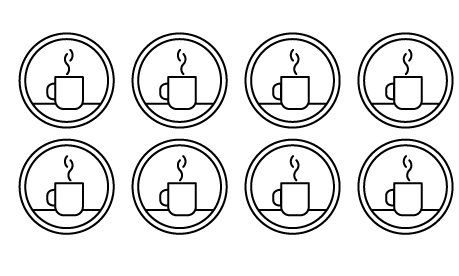
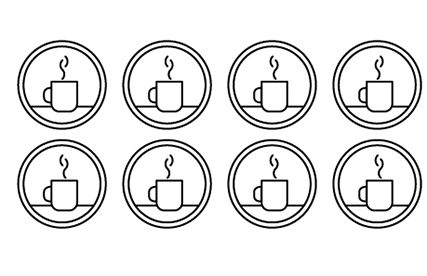
Adding the theory frid insted of the iframe

Changed region(s): [[0.0304, 0.1159, 1.0, 0.8696]]

diff --git a/index.html b/index.html
@@ -207,14 +207,62 @@
           Astrophysics here on Monday and in a set of papers submitted to The
           Astrophysical Journal.
         </p>
-        <section id="iframe-section">
-          <h2 class="hidden">Hidden only for semantic reason</h2>
-          <iframe
-            class="the-iframe"
-            src="https://www.nytimes.com/interactive/2020/admin/100000002772592.embedded.html"
-          ></iframe>
+        <section id="theory-section">
+          <h2 class="theory-title">The Theory of Inflation</h2>
+          <h3 calss="theory-subtitle">Astronomers have found evidence to support the theory of inflation, which explains how the universe expanded so uniformly and so quickly in the instant after the Big Bang 13.8 billion years ago.</h3>
+          <div class="theory-container">
+            <div class="theory-article">
+              <img class="theory-img" src="./assets/images/grid-1.png">
+              <p class="theory-par">
+                <b class="theory-par-title">THE UNIVERSE</b>is just under 14 billion years old. From our position in the Milky Way galaxy, we can observe a sphere that is now about 92 billion light-years across. But there's a mystery. Wherever we look, the universe has an even temperature.
+              </p>
+            </div>
+            <div class="theory-article">
+              <img class="theory-img" src="./assets/images/grid-2.png">
+              <p class="theory-par">
+                <b class="theory-par-title">NOT ENOUGH TIME</b>The universe is not old enough for light to have traveled the vast distance from one side of the universe to the other, and there has not been enough time for scattered patches of hot and cold to mix into an even temperature.
+              </p>
+            </div>
+            <div class="theory-article">
+              <img class="theory-img" src="./assets/images/grid-3.png">
+              <p class="theory-par">
+                <b class="theory-par-title">DISTANT COFFEE</b>At a smaller scale, imagine using a telescope to look a mile in one direction. You see a coffee cup, and from the amount of steam, you can estimate its temperature and how much it has cooled.
+              </p>
+            </div>
+            <div class="theory-article">
+              <img class="theory-img" src="./assets/images/grid-4.png">
+              <p class="theory-par">
+                <b class="theory-par-title">COFFEE EVERYWHERE</b>Now turn around and look a mile in the other direction. You see a similar coffee cup, at exactly the same temperature. Coincidence? Maybe. But if you see a similar cup in every direction, you might want to look for another explanation.
+              </p>
+            </div>
+            <div class="theory-article">
+              <img class="theory-img" src="./assets/images/grid-5.png">
+              <p class="theory-par">
+                <b class="theory-par-title">STILL NOT ENOUGH TIME</b>There has not been enough time to carry coffee cups from place to place before they get cold. But if all the coffee cups were somehow filled from a single coffee pot, all at the same time, that might explain their even temperature.
+              </p>
+            </div>
+            <div class="theory-article">
+              <img class="theory-img" src="./assets/images/grid-6.png">
+              <p class="theory-par">
+                <b class="theory-par-title">INFLATION</b>solves this problem. The theory proposes that, less than a trillionth of a second after the Big Bang, the universe expanded faster than the speed of light. Tiny ripples in the violently expanding energy field eventually grew into the large-scale structures of the universe.
+              </p>
+            </div>
+            <div class="theory-article">
+              <img class="theory-img" src="./assets/images/grid-7.png">
+              <p class="theory-par">
+                <b class="theory-par-title">FLUCTUATION</b>Astronomers have now detected evidence of these ancient fluctuations in swirls of polarized light in the cosmic background radiation, which is energy left over from the early universe. These are gravitational waves predicted by Einstein.
+              </p>
+          </div>
+          <div class="theory-article">
+            <img class="theory-img" src="./assets/images/grid-8.png">
+            <p class="theory-par">
+              <b class="theory-par-title">EXPANSION</b>Returning to our coffee, imagine a single, central pot expanding faster than light and cooling to an even temperature as it expands. That is something like inflation. And the structure of the universe mirrors the froth and foam of the original pot.
+            </p>
+          </div>
+        </div>
+          <hr class="theory-hr" />
+          <p class="theory-footer">By LARRY BUCHANAN and JONATHAN CORUM</p>
         </section>
-
         <p class="main-paragraph">
           Dr. Kovac said the chance that the results were a fluke was only one
           in 10 million.

diff --git a/assets/styles/style.css b/assets/styles/style.css
@@ -221,16 +221,6 @@ i.material-icons.social-square-icon {
   font-size: 32px;
 }
 
-section#iframe-section {
-  width: 100%;
-}
-
-iframe.the-iframe {
-  width: 90%;
-  height: 770px;
-  margin: 76px 0 0 91px;
-  overflow: hidden;
-}
 
 .social-square-icon:hover {
   color: #e2e2e2;
@@ -280,11 +270,6 @@ img[src*="jambo"] {
   width: 100%;
 }
 
-iframe[src*="ZlfIVEy_YOA"] {
-  width: 100%;
-  height: 350px;
-}
-
 .figure {
   margin: 43px auto;
 }
@@ -318,6 +303,35 @@ section#comment span.light {
 }
 
 /** MAIN SECTION END */
+
+/** Theory Section Start */
+
+section#theory-section {
+    position: relative;
+    right: 170px;
+    width: 67vw;
+}
+
+.theory-article {
+    padding: 20px 5px 30px 5px;
+}
+
+.theory-container {
+    display: grid;
+    position: relative;
+    grid-template-columns: 25% 25% 25% 25%;
+    width: 100%;
+}
+
+img.theory-img {
+    width: 100%;
+}
+
+p.theory-footer {
+    margin-bottom: 50px;
+}
+
+/** Theory Section End */
 
 /** EDITOR PICKS SECTION START */
 
